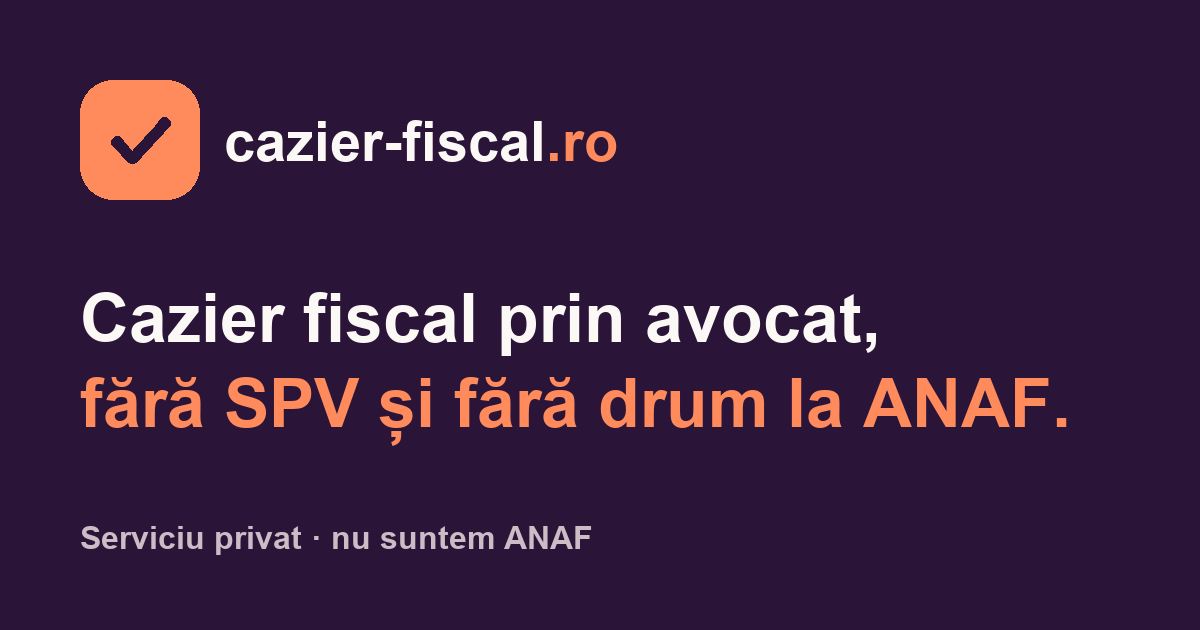
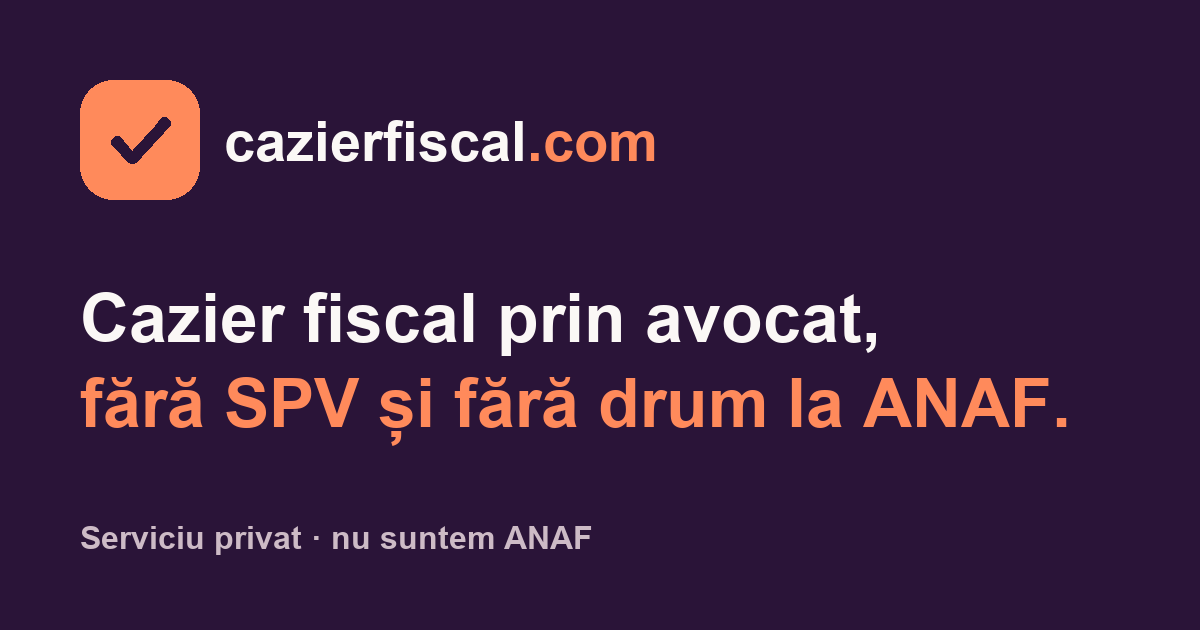
feat(cazierfiscal): move brand to cazierfiscal.com, open indexing, link from eghiseul footer
Domain bought in Vercel and attached to eghiseul-ro; GSC Domain property
verified. Resend sender stays on eghiseul until the plan allows another domain.

Changed region(s): [[0.3083, 0.181, 0.555, 0.2714]]

diff --git a/src/app/cazierfiscal/termeni-si-conditii/page.tsx b/src/app/cazierfiscal/termeni-si-conditii/page.tsx
@@ -12,7 +12,7 @@ export const metadata = buildPageMetadata({
   brand: 'cazierfiscal',
   title: 'Termeni și condiții',
   description:
-    'Termenii și condițiile de utilizare a platformei cazier-fiscal.ro (eDigitalizare SRL): cazier fiscal pentru persoane fizice, prin avocat, ' +
+    'Termenii și condițiile de utilizare a platformei cazierfiscal.com (eDigitalizare SRL): cazier fiscal pentru persoane fizice, prin avocat, ' +
     'comandă, plată, termene, livrare, anulare și rambursare, semnătură electronică, GDPR și răspundere.',
   path: PATH,
   noindex: !CAZIERFISCAL_INDEXABLE,
@@ -23,7 +23,7 @@ export const revalidate = 86400;
 /**
  * Same company and the same provisions as eghiseul.ro/termeni-si-conditii/
  * (src/app/(eghiseul)/termeni-si-conditii/page.tsx) and documentero, scoped
- * to what cazier-fiscal.ro sells: the cazier fiscal for natural persons,
+ * to what cazierfiscal.com sells: the cazier fiscal for natural persons,
  * obtained through the partner lawyer. The cancellation percentages and windows are copied as-is; the
  * cancel endpoint enforces the same rules on both brands.
  */
@@ -41,16 +41,16 @@ export default function Page() {
       <script type="application/ld+json" dangerouslySetInnerHTML={{ __html: JSON.stringify(graph) }} />
       <LegalLayoutCazierFiscal title="Termeni și condiții" path={PATH}>
         <p>
-          Acești Termeni și Condiții reglementează utilizarea platformei <strong>cazier-fiscal.ro</strong>, operată de
+          Acești Termeni și Condiții reglementează utilizarea platformei <strong>cazierfiscal.com</strong>, operată de
           <strong> eDigitalizare SRL</strong> (CUI RO49278701, Reg. Com. J2023001097301, sediul în Jud. Satu Mare,
-          Com. Odoreu, Str. Salcâmilor nr. 2), denumită în continuare „cazier-fiscal.ro”, „Prestatorul” sau „noi”. Prin
+          Com. Odoreu, Str. Salcâmilor nr. 2), denumită în continuare „cazierfiscal.com”, „Prestatorul” sau „noi”. Prin
           accesarea platformei și plasarea unei comenzi, confirmi că ai citit, înțeles și acceptat integral acești
           termeni. Dacă nu ești de acord cu oricare prevedere, te rugăm să nu utilizezi serviciile.
         </p>
 
         <h2>1. Definiții</h2>
         <ul>
-          <li><strong>Platforma</strong>: site-ul cazier-fiscal.ro, cu toate paginile, formularele și funcționalitățile.</li>
+          <li><strong>Platforma</strong>: site-ul cazierfiscal.com, cu toate paginile, formularele și funcționalitățile.</li>
           <li><strong>Prestatorul</strong>: eDigitalizare SRL, cu datele de mai sus.</li>
           <li><strong>Beneficiarul (Clientul)</strong>: orice persoană fizică ce utilizează serviciile, pentru sine sau, cu împuternicire, pentru un membru al familiei.</li>
           <li><strong>Serviciile</strong>: serviciul privat de asistență la obținerea certificatului de cazier fiscal de la ANAF, prin avocat.</li>
@@ -60,7 +60,7 @@ export default function Page() {
 
         <h2>2. Serviciile noastre</h2>
         <p>
-          cazier-fiscal.ro este o platformă privată de asistență și intermediere. Nu suntem o instituție publică și nu
+          cazierfiscal.com este o platformă privată de asistență și intermediere. Nu suntem o instituție publică și nu
           suntem afiliați niciunui organ guvernamental; acționăm în numele tău, pe bază de contract de asistență
           juridică și împuternicire avocațială, pentru depunerea cererilor și ridicarea actelor. Certificatul de cazier
           fiscal este emis exclusiv de Agenția Națională de Administrare Fiscală (ANAF), care îl eliberează și direct,

diff --git a/src/lib/brand/brands.ts b/src/lib/brand/brands.ts
@@ -82,7 +82,7 @@ export const DOCUMENTERO_SERVICE_SLUGS = [
 ] as const;
 
 /**
- * cazier-fiscal.ro (2026-11-10): single-service niche site for the cazier
+ * cazierfiscal.com (2026-11-10): single-service niche site for the cazier
  * fiscal, same backend. Raul's call after seeing cazierauto.ro (one-topic
  * site, live since 06.2026) rank above us; eghiseul sits at position 55–80
  * on the fiscal queries and CJO at 7–9. CJO keeps its fiscal pages.
@@ -137,18 +137,18 @@ export const BRANDS: Record<BrandId, Brand> = {
   },
   cazierfiscal: {
     id: 'cazierfiscal',
-    name: 'cazier-fiscal.ro',
-    domain: 'cazier-fiscal.ro',
-    baseUrl: 'https://cazier-fiscal.ro',
+    name: 'cazierfiscal.com',
+    domain: 'cazierfiscal.com',
+    baseUrl: 'https://cazierfiscal.com',
     // No mailbox on the new domain: every address a person writes to is the
     // eghiseul inbox, as on documentero. Sending falls back to the eghiseul
-    // sender until cazier-fiscal.ro is verified in Resend
+    // sender until cazierfiscal.com is verified in Resend
     // (RESEND_VERIFIED_DOMAINS, src/lib/email/resend.ts).
     contactEmail: 'contact@eghiseul.ro',
     phoneDisplay: '+40 757 708 181',
     whatsappNumber: '40757708181',
-    emailFrom: 'cazier-fiscal.ro <contact@cazier-fiscal.ro>',
-    emailLogoUrl: 'https://cazier-fiscal.ro/images/cazierfiscal/email-logo.png',
+    emailFrom: 'cazierfiscal.com <contact@cazierfiscal.com>',
+    emailLogoUrl: 'https://cazierfiscal.com/images/cazierfiscal/email-logo.png',
     // Palette: docs/cazier-fiscal/README.md (aubergine + coral).
     emailHeaderBg: '#2A1438',
     emailCtaBg: '#FF8A5B',
@@ -159,9 +159,9 @@ export const BRANDS: Record<BrandId, Brand> = {
     // are allocated on the eghiseul platform, so the central registry needs
     // no new platform value.
     registryPlatform: 'eghiseul',
-    legalBaseUrl: 'https://cazier-fiscal.ro',
+    legalBaseUrl: 'https://cazierfiscal.com',
     legalTagline:
-      'eDigitalizare SRL · CUI RO49278701 · cazier-fiscal.ro este un serviciu privat de asistență la obținerea cazierului fiscal; nu suntem instituție de stat și nu suntem afiliați ANAF.',
+      'eDigitalizare SRL · CUI RO49278701 · cazierfiscal.com este un serviciu privat de asistență la obținerea cazierului fiscal; nu suntem instituție de stat și nu suntem afiliați ANAF.',
   },
 };
 

diff --git a/src/app/cazierfiscal/despre/page.tsx b/src/app/cazierfiscal/despre/page.tsx
@@ -17,7 +17,7 @@ export const metadata = buildPageMetadata({
   brand: 'cazierfiscal',
   title: 'Despre noi: cine obține cazierul fiscal pentru tine',
   description:
-    'cazier-fiscal.ro este un serviciu al eDigitalizare SRL (eghiseul.ro), Satu Mare. Cererea la ANAF o depune avocat Tarța Ana Gabriela, Baroul Satu Mare.',
+    'cazierfiscal.com este un serviciu al eDigitalizare SRL (eghiseul.ro), Satu Mare. Cererea la ANAF o depune avocat Tarța Ana Gabriela, Baroul Satu Mare.',
   path: PATH,
   noindex: !CAZIERFISCAL_INDEXABLE,
 });
@@ -52,7 +52,7 @@ export default function DesprePage() {
             Un singur document, făcut bine: cazierul fiscal.
           </h1>
           <p className="m-0 max-w-[760px] text-[17px] leading-[1.6] text-d-muted sm:text-[18px]">
-            cazier-fiscal.ro este un serviciu al {ORGANIZATION.legalName}, firma din Satu Mare din spatele{' '}
+            cazierfiscal.com este un serviciu al {ORGANIZATION.legalName}, firma din Satu Mare din spatele{' '}
             <a href={BRANDS.eghiseul.baseUrl} className="underline underline-offset-2">eghiseul.ro</a>. Din 2023 obținem
             documente de la instituțiile din România pentru oameni care nu au timp de ghișeu sau nu au cont SPV. Pe
             eghiseul.ro avem peste {SOCIAL_PROOF.roundedDown} de recenzii pe Google, cu nota {rating} din 5.
@@ -76,7 +76,7 @@ export default function DesprePage() {
               <span className="text-[14px] text-d-muted">{LAWYER.title} · {LAWYER.experience}</span>
               <p className="m-0 text-[15px] leading-[1.6] text-d-body">
                 Cabinet individual în Satu Mare ({LAWYER.office}). Lucrează pentru clienții eghiseul.ro, documentero.ro
-                și cazier-fiscal.ro.
+                și cazierfiscal.com.
               </p>
               <a href={LAWYER.site} target="_blank" rel="noopener" className="mt-1 text-[14px] font-semibold text-d-ink underline decoration-d-acc underline-offset-2">avocat-tarta.ro</a>
             </div>

diff --git a/src/app/cazierfiscal/politica-de-confidentialitate/page.tsx b/src/app/cazierfiscal/politica-de-confidentialitate/page.tsx
@@ -12,7 +12,7 @@ export const metadata = buildPageMetadata({
   brand: 'cazierfiscal',
   title: 'Politica de confidențialitate',
   description:
-    'Cum colectează, folosește și protejează cazier-fiscal.ro (eDigitalizare SRL) datele tale personale: ' +
+    'Cum colectează, folosește și protejează cazierfiscal.com (eDigitalizare SRL) datele tale personale: ' +
     'date colectate, scop, temei legal, destinatari și persoane împuternicite, durata stocării și drepturile tale GDPR.',
   path: PATH,
   noindex: !CAZIERFISCAL_INDEXABLE,
@@ -42,7 +42,7 @@ export default function Page() {
       <LegalLayoutCazierFiscal title="Politica de confidențialitate" path={PATH}>
         <p>
           <strong>eDigitalizare SRL</strong> (CUI RO49278701, Reg. Com. J2023001097301, sediul în Jud. Satu Mare,
-          Com. Odoreu, Str. Salcâmilor nr. 2), operatorul platformei <strong>cazier-fiscal.ro</strong>, denumită în
+          Com. Odoreu, Str. Salcâmilor nr. 2), operatorul platformei <strong>cazierfiscal.com</strong>, denumită în
           continuare „Operatorul” sau „noi”, prelucrează datele tale cu caracter personal în conformitate cu
           Regulamentul (UE) 2016/679 (GDPR), Legea nr. 190/2018 și legislația națională în vigoare. Această politică
           explică ce date colectăm, în ce scop, cui le divulgăm, cât le păstrăm și ce drepturi ai.
@@ -50,7 +50,7 @@ export default function Page() {
 
         <h2>1. Operatorul de date</h2>
         <p>
-          Operatorul de date cu caracter personal pentru platforma cazier-fiscal.ro este <strong>eDigitalizare SRL</strong>,
+          Operatorul de date cu caracter personal pentru platforma cazierfiscal.com este <strong>eDigitalizare SRL</strong>,
           cu datele de identificare de mai sus. Pentru orice solicitare privind datele tale, ne poți contacta la{' '}
           {email} sau {phone}.
         </p>

diff --git a/src/components/cazierfiscal/footer.tsx b/src/components/cazierfiscal/footer.tsx
@@ -22,7 +22,7 @@ function Col({ title, items }: { title: string; items: ReadonlyArray<{ label: st
 }
 
 /**
- * cazier-fiscal.ro footer. Same legal obligations as the documentero and
+ * cazierfiscal.com footer. Same legal obligations as the documentero and
  * eghiseul footers: company data, ANPC badges (SAL + EU consumer redress),
  * the consumer phone line and the non-affiliation disclosure (ANAF).
  */
@@ -74,7 +74,7 @@ export function FooterCazierFiscal() {
         <div className="mt-10 border-t border-d-line pt-6">
           <div className="flex flex-col gap-5 md:flex-row md:items-center md:justify-between">
             <div className="flex flex-col gap-1 text-[12px] leading-relaxed text-d-muted">
-              <span>© {new Date().getFullYear()} cazier-fiscal.ro · {ORGANIZATION.legalName}</span>
+              <span>© {new Date().getFullYear()} cazierfiscal.com · {ORGANIZATION.legalName}</span>
               <span>
                 CUI {ORGANIZATION.cui} · Reg. Com. {ORGANIZATION.regCom} · {ORGANIZATION.address.region},{' '}
                 {ORGANIZATION.address.locality}, {ORGANIZATION.address.street}
@@ -99,7 +99,7 @@ export function FooterCazierFiscal() {
             </div>
           </div>
           <p className="m-0 mt-5 text-[12px] leading-relaxed text-d-muted">
-            cazier-fiscal.ro este un serviciu privat de asistență și intermediere al {ORGANIZATION.legalName}. Nu suntem
+            cazierfiscal.com este un serviciu privat de asistență și intermediere al {ORGANIZATION.legalName}. Nu suntem
             instituție de stat și nu suntem afiliați ANAF sau altei autorități. Certificatul de cazier fiscal îl eliberează
             exclusiv ANAF și poate fi obținut și direct, gratuit, la ghișeu sau din SPV; tariful nostru acoperă asistența,
             reprezentarea prin avocat înscris în Barou și livrarea.

diff --git a/src/app/cazierfiscal/politica-cookies/page.tsx b/src/app/cazierfiscal/politica-cookies/page.tsx
@@ -13,7 +13,7 @@ export const metadata = buildPageMetadata({
   brand: 'cazierfiscal',
   title: 'Politica de cookie-uri',
   description:
-    'Exact ce cookie-uri folosește cazier-fiscal.ro, ce urmărim și ce NU urmărim, cât timp și cum îți schimbi opțiunea oricând.',
+    'Exact ce cookie-uri folosește cazierfiscal.com, ce urmărim și ce NU urmărim, cât timp și cum îți schimbi opțiunea oricând.',
   path: PATH,
   noindex: !CAZIERFISCAL_INDEXABLE,
 });
@@ -39,7 +39,7 @@ export default function Page() {
       <script type="application/ld+json" dangerouslySetInnerHTML={{ __html: JSON.stringify(graph) }} />
       <LegalLayoutCazierFiscal title="Politica de cookie-uri" path={PATH}>
         <p>
-          <strong>cazier-fiscal.ro</strong> (eDigitalizare SRL) folosește puține cookie-uri și le folosește
+          <strong>cazierfiscal.com</strong> (eDigitalizare SRL) folosește puține cookie-uri și le folosește
           transparent. Pe scurt: cele strict necesare rulează mereu (altfel nu funcționează comanda și
           plata), iar analiza Google Analytics pornește <strong>doar dacă apeși „Accept”</strong> în
           banner. Nimic altceva.
@@ -82,7 +82,7 @@ export default function Page() {
           <tbody>
             <tr>
               <td><code>eg_cookie_consent</code></td>
-              <td>cazier-fiscal.ro</td>
+              <td>cazierfiscal.com</td>
               <td>Reține alegerea ta din bannerul de cookie-uri</td>
               <td>6 luni</td>
               <td>Strict necesar</td>

diff --git a/src/app/cazierfiscal/politica-de-anulare/page.tsx b/src/app/cazierfiscal/politica-de-anulare/page.tsx
@@ -23,7 +23,7 @@ export const revalidate = 86400;
 /**
  * Same rules as eghiseul.ro/politica-de-anulare/ (src/app/(eghiseul)/politica-de-anulare/page.tsx):
  * the lists come from the DB (`processing_config.allow_self_cancel`), limited to
- * the services cazier-fiscal.ro sells, so the page can never drift from what the
+ * the services cazierfiscal.com sells, so the page can never drift from what the
  * cancel endpoint enforces. Revalidated daily with the page.
  */
 async function getCancellationLists(): Promise<{ cancellable: string[]; excluded: string[] }> {
@@ -132,7 +132,7 @@ export default async function Page() {
           </>
         ) : (
           <p>
-            În prezent, cazierul fiscal comandat pe cazier-fiscal.ro poate fi anulat în fereastra de 30 de minute.
+            În prezent, cazierul fiscal comandat pe cazierfiscal.com poate fi anulat în fereastra de 30 de minute.
           </p>
         )}
         <p>
@@ -184,7 +184,7 @@ export default async function Page() {
 
         <p>
           Politica completă, împreună cu restul condițiilor contractuale, este parte din{' '}
-          <Link href="/termeni-si-conditii/#anulare">Termenii și condițiile</Link> cazier-fiscal.ro
+          <Link href="/termeni-si-conditii/#anulare">Termenii și condițiile</Link> cazierfiscal.com
           (secțiunea 8).
         </p>
       </LegalLayoutCazierFiscal>

diff --git a/src/lib/seo/indexnow.ts b/src/lib/seo/indexnow.ts
@@ -19,14 +19,14 @@ export const INDEXNOW_MAX_URLS = 10_000;
 export const INDEXNOW_KEYS: Record<string, string> = {
   'eghiseul.ro': '5559960a430bdbd96eec4bded0919eda',
   'documentero.ro': '2f5ec717a8dbf488bd1d940efd5e7570',
-  'cazier-fiscal.ro': 'd1d21e69dc68809e05c16ee075f553a5',
+  'cazierfiscal.com': 'd1d21e69dc68809e05c16ee075f553a5',
 };
 
 /** Hosts the cron submits for, with their sitemap. */
 export const INDEXNOW_SITES = [
   { host: 'eghiseul.ro', sitemap: 'https://eghiseul.ro/sitemap.xml' },
   { host: 'documentero.ro', sitemap: 'https://documentero.ro/sitemap.xml' },
-  { host: 'cazier-fiscal.ro', sitemap: 'https://cazier-fiscal.ro/sitemap.xml' },
+  { host: 'cazierfiscal.com', sitemap: 'https://cazierfiscal.com/sitemap.xml' },
 ] as const;
 
 /**
@@ -37,7 +37,7 @@ export function canonicalHost(rawHost: string | null | undefined): string | null
   if (!rawHost) return null;
   const host = rawHost.toLowerCase().split(':')[0]!.replace(/^www\./, '');
   if (host === 'documentero.ro' || host === 'documentero.localhost') return 'documentero.ro';
-  if (host === 'cazier-fiscal.ro' || host === 'cazier-fiscal.localhost') return 'cazier-fiscal.ro';
+  if (host === 'cazierfiscal.com' || host === 'cazierfiscal.localhost') return 'cazierfiscal.com';
   if (host === 'eghiseul.ro' || host === 'localhost' || host === 'eghiseul.localhost') return 'eghiseul.ro';
   return null;
 }

diff --git a/src/components/consent/cookie-consent.tsx b/src/components/consent/cookie-consent.tsx
@@ -17,7 +17,7 @@ const GA_ID = process.env.NEXT_PUBLIC_GA_MEASUREMENT_ID;
 // documentero.ro has its own GA4 data stream (own property, own reports).
 // Empty → the eghiseul stream also collects documentero traffic (before 21.09.2026 that was the case).
 const GA_ID_DOCUMENTERO = process.env.NEXT_PUBLIC_GA_MEASUREMENT_ID_DOCUMENTERO || GA_ID;
-// cazier-fiscal.ro: own stream once created; until then the eghiseul stream
+// cazierfiscal.com: own stream once created; until then the eghiseul stream
 // collects it (hostname separates it in reports).
 const GA_ID_CAZIERFISCAL = process.env.NEXT_PUBLIC_GA_MEASUREMENT_ID_CAZIERFISCAL || GA_ID;
 type BrandKey = 'eghiseul' | 'documentero' | 'cazierfiscal';
@@ -34,7 +34,7 @@ const ADS_ID = process.env.NEXT_PUBLIC_GOOGLE_ADS_ID;
 // documentero.ro has its own Google Ads account (05.10.2026). No fallback to
 // the eghiseul account: documentero conversions must never land there.
 const ADS_ID_DOCUMENTERO = process.env.NEXT_PUBLIC_GOOGLE_ADS_ID_DOCUMENTERO;
-// cazier-fiscal.ro: no Ads account yet, and no fallback to eghiseul's.
+// cazierfiscal.com: no Ads account yet, and no fallback to eghiseul's.
 const ADS_ID_CAZIERFISCAL = process.env.NEXT_PUBLIC_GOOGLE_ADS_ID_CAZIERFISCAL;
 function adsIdFor(brand: BrandKey): string | undefined {
   if (brand === 'documentero') return ADS_ID_DOCUMENTERO;

diff --git a/src/components/cazierfiscal/header.tsx b/src/components/cazierfiscal/header.tsx
@@ -3,7 +3,7 @@ import { CAZIERFISCAL_NAV, CAZIERFISCAL_ORDER_HREF, CAZIERFISCAL_TRACK_HREF } fr
 import { CazierFiscalLogo } from './logo';
 
 /**
- * cazier-fiscal.ro header: server component, no client JS. Used by the public
+ * cazierfiscal.com header: server component, no client JS. Used by the public
  * pages and by the shared wizard/checkout/status routes on this host
  * (src/app/(order)/layout.tsx). Under 1024px the links sit in a <details>
  * menu, which works without JavaScript. The order button is always visible.
@@ -13,7 +13,7 @@ export function HeaderCazierFiscal({ active }: { active?: string }) {
   return (
     <header className="sticky top-0 z-40 border-b border-d-line bg-d-bg/90 backdrop-blur-md">
       <div className="mx-auto flex h-[68px] max-w-[1312px] items-center justify-between gap-3 px-3 sm:gap-6 sm:px-6 lg:px-8">
-        <Link href="/" aria-label="cazier-fiscal.ro — Acasă" className="shrink-0 hover:opacity-85">
+        <Link href="/" aria-label="cazierfiscal.com — Acasă" className="shrink-0 hover:opacity-85">
           <span className="sm:hidden"><CazierFiscalLogo size={17} /></span>
           <span className="hidden sm:inline"><CazierFiscalLogo size={20} /></span>
         </Link>

diff --git a/next.config.ts b/next.config.ts
@@ -17,12 +17,12 @@ const DOCUMENTERO_HOST_RE = `(?:${DOCUMENTERO_HOSTS.map((h) => h.replace(/[.*+?^
 const onDocumentero = [{ type: 'host' as const, value: DOCUMENTERO_HOST_RE }];
 
 /**
- * Hosts served as cazier-fiscal.ro (third brand, 2026-11-10): same pattern as
+ * Hosts served as cazierfiscal.com (third brand, 2026-11-10): same pattern as
  * documentero, route group `src/app/cazierfiscal/`.
  */
 const CAZIERFISCAL_HOSTS = [
-  'cazier-fiscal.ro',
-  'www.cazier-fiscal.ro',
+  'cazierfiscal.com',
+  'www.cazierfiscal.com',
   ...(process.env.CAZIERFISCAL_EXTRA_HOSTS ?? '')
     .split(',')
     .map((h) => h.trim().toLowerCase())
@@ -87,7 +87,7 @@ const nextConfig: NextConfig = {
           has: onDocumentero,
           destination: '/documentero/:path',
         },
-        // cazier-fiscal.ro — same rules, its own group.
+        // cazierfiscal.com — same rules, its own group.
         { source: '/', has: onCazierFiscal, destination: '/cazierfiscal' },
         { source: '/robots.txt', has: onCazierFiscal, destination: '/cazierfiscal/robots.txt' },
         { source: '/sitemap.xml', has: onCazierFiscal, destination: '/cazierfiscal/sitemap.xml' },

diff --git a/src/app/(eghiseul)/admin/orders/page.tsx b/src/app/(eghiseul)/admin/orders/page.tsx
@@ -416,7 +416,7 @@ export default function AdminOrdersPage() {
         />
         <SandboxChip
           active={urlPlatform === 'cazierfiscal'}
-          label="cazier-fiscal.ro"
+          label="cazierfiscal.com"
           onClick={() => updateParams({ platform: urlPlatform === 'cazierfiscal' ? null : 'cazierfiscal' })}
         />
       </div>
@@ -632,10 +632,10 @@ export default function AdminOrdersPage() {
                       )}
                       {order.platform === 'cazierfiscal' && (
                         <span
-                          title="Comandă plasată pe cazier-fiscal.ro"
+                          title="Comandă plasată pe cazierfiscal.com"
                           className="inline-flex items-center rounded border border-orange-300 bg-orange-50 px-1 py-0 text-[9px] font-semibold uppercase tracking-wide text-orange-800"
                         >
-                          cazier-fiscal
+                          cazierfiscal
                         </span>
                       )}
                       {order.payment_status === 'paid' && !order.invoice_number && (
